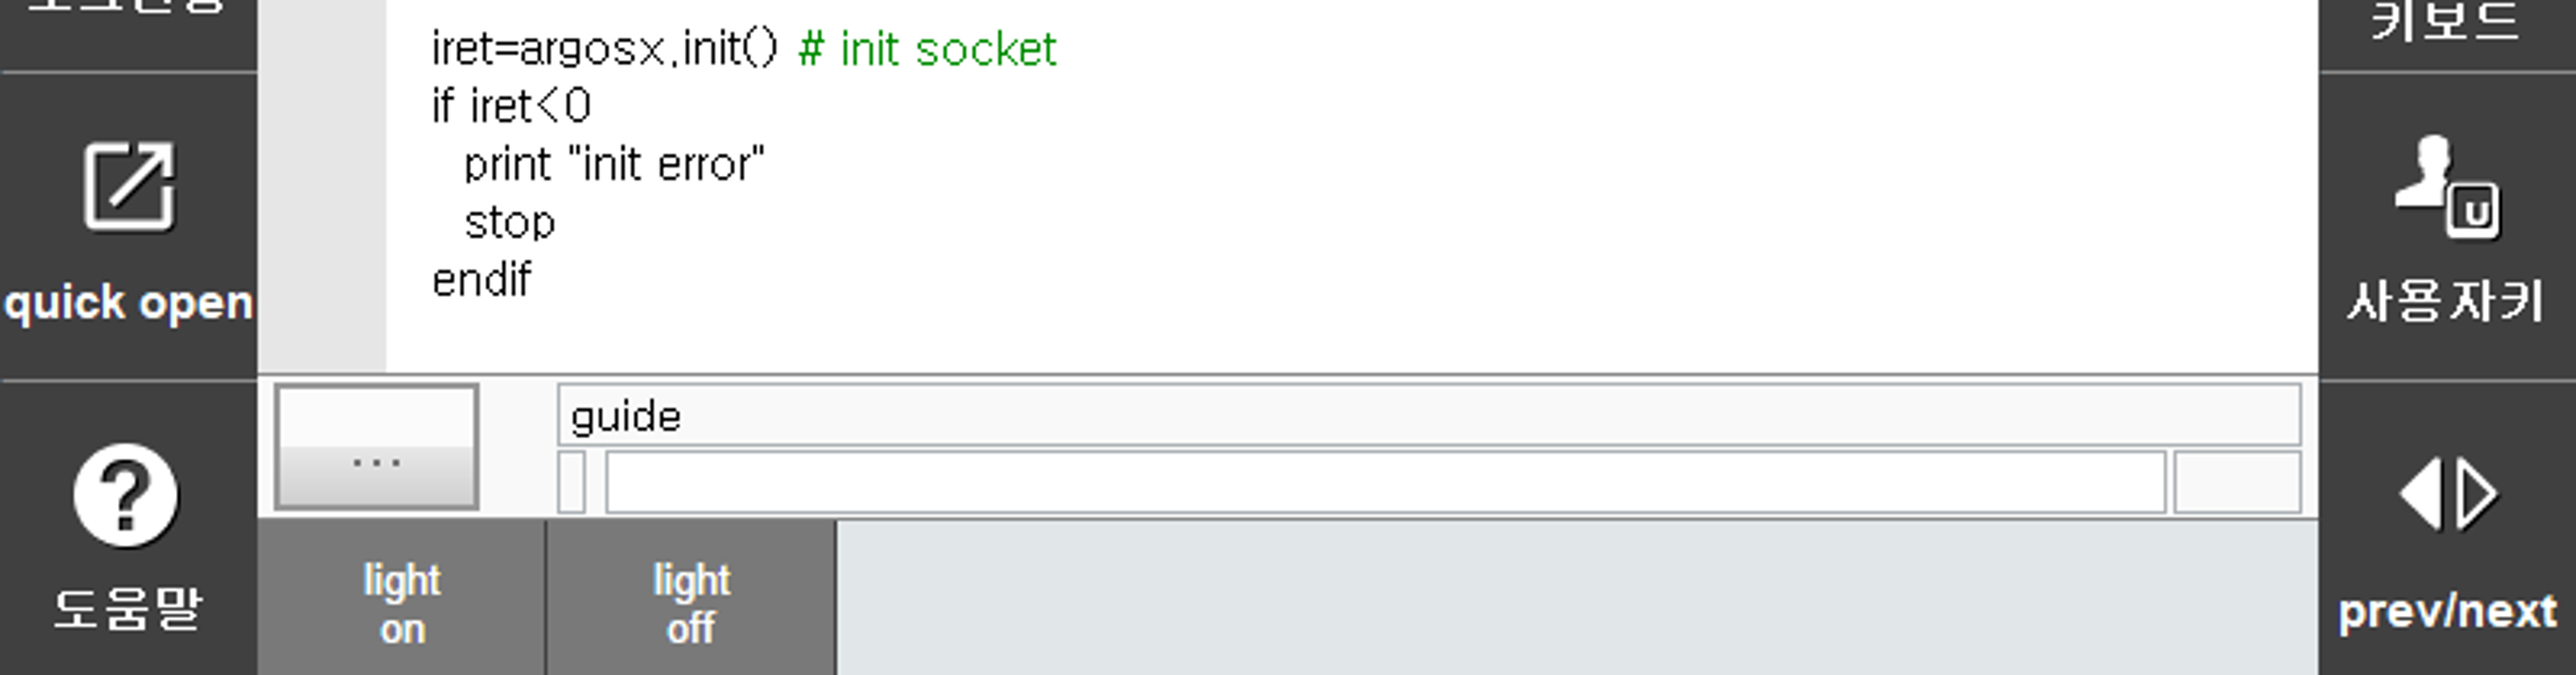
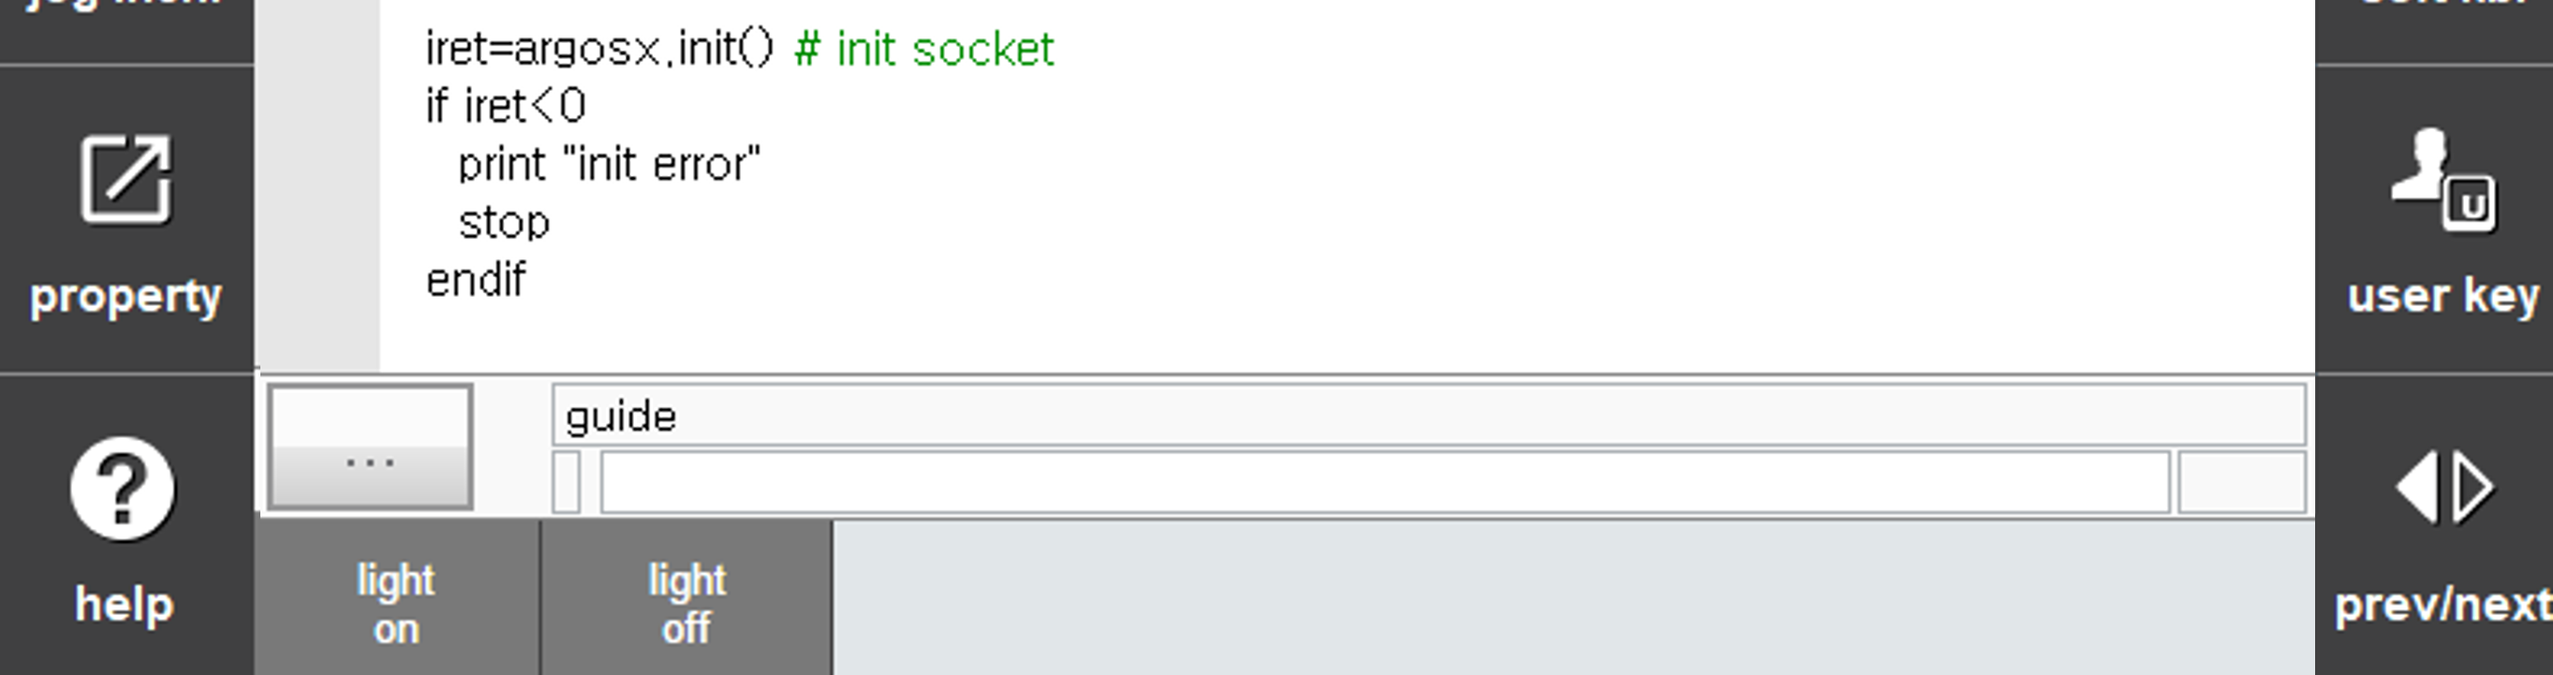
argosX 제외한 이미지 영문화 수정 완료
(cherry picked from commit 2b6bb03d00a3b22a1eedbede8eff796cf3490590)

diff --git a/book.md b/book.md
@@ -4361,14 +4361,14 @@ Set the label value to "IDS_title" instead of the fixed text "ArgosX Vision Syst
 In the virtual controller environment, you must modify the "lang_code" value in hi6tp_platform_cfg.json.
 
 ```json
-"lang_code": "ko"
+"lang_code": "en"
 ```
 
 After changing the lang_code, restart the controller and TP to verify the updated language and menu label.
 
 If applied correctly, the menu should now be displayed in Korean.
 
-    ![](../../../_assets/image_86.png)
+![](../../../_assets/image_86.png)
 
 [__SOURCE](3-practice-argosx/6-translation/1-update-setup/2-setup-ui.md)
 #### 3.6.1.2 Translating the Setup Screen UI
